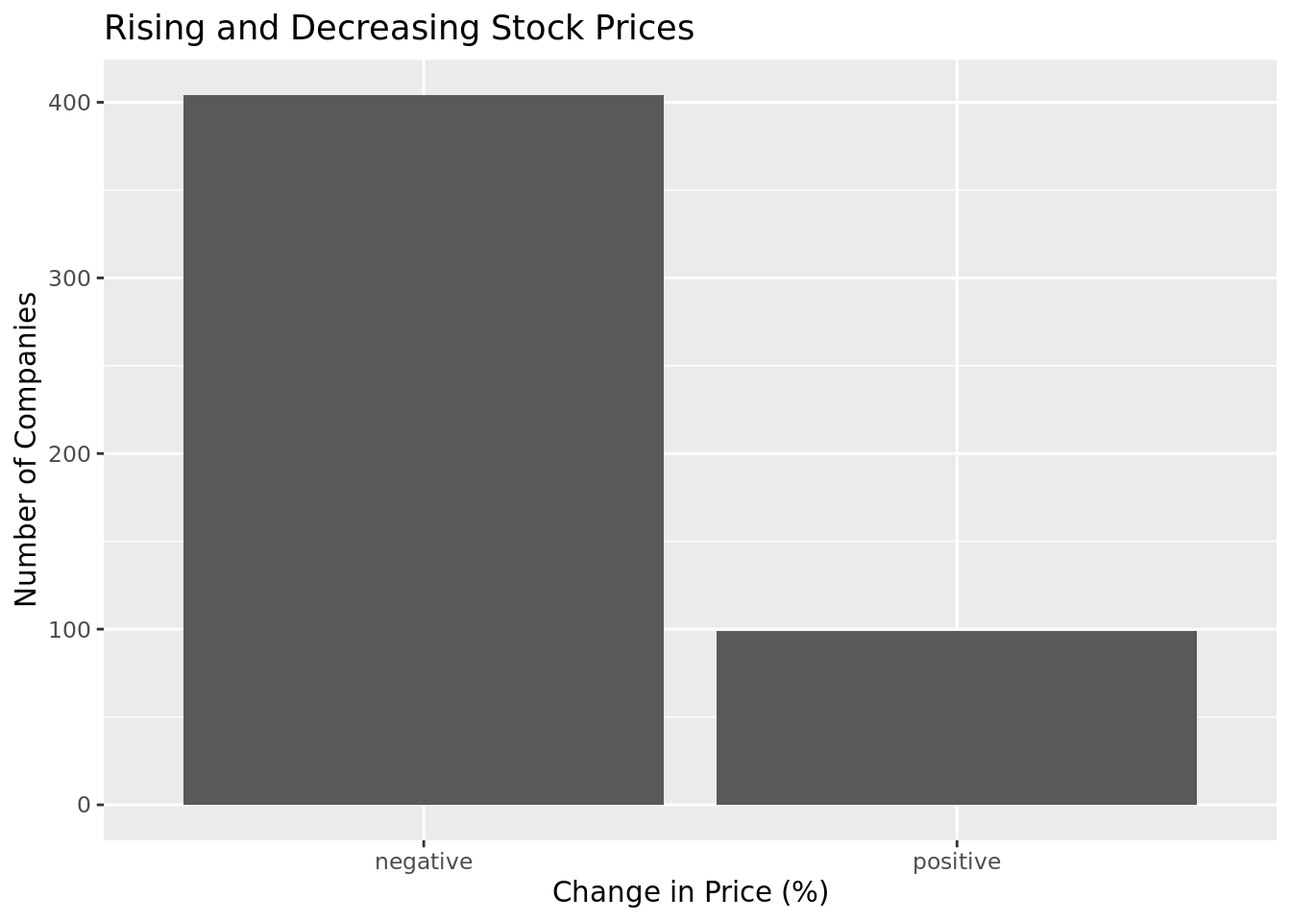
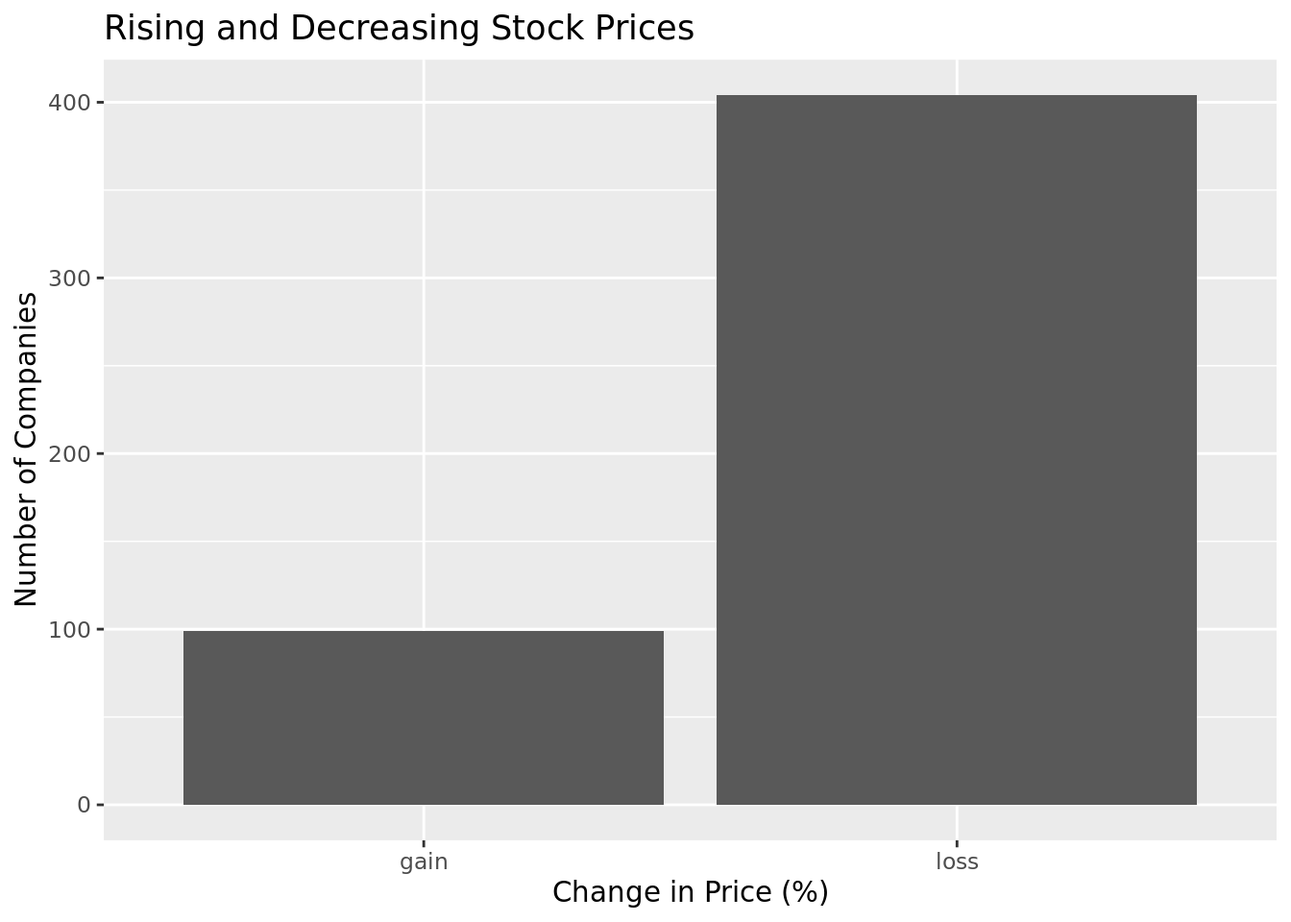
tried modeling--didn't work, fixed up conclusions

diff --git a/docs/report.html b/docs/report.html
@@ -565,8 +565,8 @@ $ decade                  &lt;chr&gt; "'60s", "'60s", "'60s", "'60s", "'60s", "'
 </div>
 </div>
 <p>For the last part of our historical analysis, we wanted to examine the averages of returns, interest, and inflation by decade. To do so, we calculated the means for each rate and return by decade and then created a bar chart for each decade using geom_col() and facet_wrap().</p>
-<p><strong>Results:</strong> As you can see in <a href="#fig-inflation-vs-interest">Figure&nbsp;1</a>, inflation and interest rates are very closely related (especially prior to 2000), with interest and inflation peaking and dipping at similar times. This trend makes sense, as the Federal Reserve tends to raise interest rates when inflation rises, in an attempt to slow the economy down. (This is why the Federal Reserve is raising interest rates now–more on that later.) As depicted in <a href="#fig-inflation-and-interest-vs-returns">Figure&nbsp;2</a>, market returns are extremely volatile and (at least according to this graph) don’t seem to depend on either interest or inflation, contrary to our hypothesis.</p>
-<p><a href="#tbl-best-ten-years-of-returns">Table&nbsp;1</a> show that any of the best years feature at least one relatively low rate (&lt;5%), with many having both low interest and inflation rates. Noticeable outliers include 1980, whose rates were both over 13%, and 1975, whose interest rate was almost 6% and inflation 9%. This trend of high returns correlating with lower rates does support our hypothesis. On the other hand, we expected many of the worst years for market returns to have high rates; surprisingly, this was not the case for about half of the worst years, as shown in <a href="#tbl-worst-ten-years-of-returns">Table&nbsp;2</a>. Though some years did support our hypothesis, including 1974, 1973, 1969, and 1977, the others featured surprisingly low rates. We suspect that these unanticipated poor performance of the stock market during times of low rates could possibly be explained by recessions occurring during these years; in recessionary gaps, inflation tends to be lower because the economy has slowed significantly, and interest rates tend to be low as well in an attempt to re-stimulate the economy by encouraging borrowing.</p>
+<p><strong>Results:</strong> As you can see in <a href="#fig-inflation-vs-interest">Figure&nbsp;1</a>, inflation and interest rates are very closely related (especially prior to 2000), with interest and inflation peaking and dipping at similar times. This trend makes sense, as the Federal Reserve tends to raise interest rates when inflation rises, in an attempt to slow the economy down. (This is why the Federal Reserve is raising interest rates now–more on that later.) As depicted in <a href="#fig-inflation-and-interest-vs-returns">Figure&nbsp;2</a>, market returns are extremely volatile and (at least according to this graph) don’t seem to depend on either interest or inflation, contrary to our hypothesis. Note that we also created several linear models predicting S&amp;P 500 returns from interest and/or inflation rates, but we didn’t include our results because the highest R-squared for any model was only 0.026; thus, these models weren’t very helpful to our analysis, aside from the fact that they also supported the idea that market returns for our data seem to be independent of interest and inflation rates.</p>
+<p><a href="#tbl-best-ten-years-of-returns">Table&nbsp;1</a> show that almost all of the best years for S&amp;P 500 returns feature either a low interest or inflation rate (&lt;5%), with many having both low interest and inflation rates. Noticeable outliers include 1980, whose rates were both over 13%, and 1975, whose interest rate was almost 6% and inflation 9%. This trend of high returns correlating with lower rates does support our hypothesis. On the other hand, we expected many of the worst years for market returns to have high rates; surprisingly, this was not the case for about half of the worst years, as shown in <a href="#tbl-worst-ten-years-of-returns">Table&nbsp;2</a>. Though some years did support our hypothesis, including 1974, 1973, 1969, and 1977, the others featured surprisingly low rates. We suspect that these unanticipated poor performance of the stock market during times of low rates could possibly be explained by recessions occurring during these years; in recessionary gaps, inflation tends to be lower because the economy has slowed significantly, and interest rates tend to be low as well in an attempt to re-stimulate the economy by encouraging borrowing.</p>
 <p><a href="#fig-rates-by-decade">Figure&nbsp;3</a> supports what we concluded after examining the best and worst 10 years of returns: higher returns seem to be common in times of low rates, but it’s difficult to determine a relationship between returns and rates when returns are lower. For example, the ’60s, ’90s, and 2010s all featured high returns (~10+%) and rates at or below 5%; an outlier decade is the 2000s, whose average return was an abysmal ~1% despite low rates. On the other hand, in decades when rates were high (the ’70s and ’80s), returns were much more volatile–about average in the ’70s (7.5%) yet outstanding in the ’80s (15+%).</p>
 <p><strong>Conclusion:</strong> Our initial hypothesis was partially correct. It seems that higher returns in the stock market generally correlate with lower interest and inflation rates, but years with lower returns can’t be explained as neatly, at least with the data we’re using. A potential confounding variable could be whether our economy was experiencing a recession during that year, as recessions sometimes create environments where returns in the stock market are poor even in times of low rates. Given this, it would be difficult to apply any predictions to our current-day analysis, since the market currently features very low (mostly negative) returns. However, we can still independently conduct the current-day analysis to gain a more in-depth understanding of the relationship between returns and rates.</p>
 <div style="page-break-after: always;"></div>
@@ -580,8 +580,8 @@ $ decade                  &lt;chr&gt; "'60s", "'60s", "'60s", "'60s", "'60s", "'
 <p>Investing.com gets their data from financial-data providers, including stock exchanges and/or directly from market makers (who set stock prices to match supply and demand). The data is collected in real time by monitoring transactions (selling, buying, etc.) executed in the stock market, which correspond to increases/decreases in prices. Each observation represents a different day (between 1 October 2020 and 28 October 2022) and includes the following variables:</p>
 <table class="table">
 <colgroup>
-<col style="width: 27%">
-<col style="width: 72%">
+<col style="width: 26%">
+<col style="width: 73%">
 </colgroup>
 <thead>
 <tr class="header">
@@ -612,7 +612,7 @@ $ decade                  &lt;chr&gt; "'60s", "'60s", "'60s", "'60s", "'60s", "'
 </tr>
 <tr class="even">
 <td>gain</td>
-<td>TRUE if daily_diff &gt; 0 (positive return for the day), else FALSE</td>
+<td>“gain” if daily_diff &gt; 0 (positive return for the day), else “loss”</td>
 </tr>
 </tbody>
 </table>
@@ -633,7 +633,7 @@ $ Low                  &lt;dbl&gt; 3808.26, 3803.79, 3824.07, 3799.44, 3741.65, 
 $ daily_percent_change &lt;dbl&gt; 2.4368084, -0.7142690, 0.1210151, 1.5704946, 0.93…
 $ daily_diff           &lt;dbl&gt; 92.80, -27.39, 4.63, 59.67, 35.33, 95.65, -23.27,…
 $ high_minus_low       &lt;dbl&gt; 97.16, 56.16, 62.08, 63.41, 69.09, 110.47, 79.56,…
-$ gain                 &lt;lgl&gt; TRUE, FALSE, TRUE, TRUE, TRUE, TRUE, FALSE, FALSE…</code></pre>
+$ gain                 &lt;chr&gt; "gain", "loss", "gain", "gain", "gain", "gain", "…</code></pre>
 </div>
 </div>
 <p><strong>Methodology:</strong></p>
@@ -646,14 +646,19 @@ $ gain                 &lt;lgl&gt; TRUE, FALSE, TRUE, TRUE, TRUE, TRUE, FALSE, F
 <span id="cb12-6"><a href="#cb12-6" aria-hidden="true" tabindex="-1"></a>     <span class="at">sep =</span> <span class="st">"/"</span></span>
 <span id="cb12-7"><a href="#cb12-7" aria-hidden="true" tabindex="-1"></a>    )</span>
 <span id="cb12-8"><a href="#cb12-8" aria-hidden="true" tabindex="-1"></a>  ) <span class="sc">|&gt;</span></span>
-<span id="cb12-9"><a href="#cb12-9" aria-hidden="true" tabindex="-1"></a>  <span class="fu">ggplot</span>(<span class="fu">aes</span>(<span class="at">x =</span> Date, <span class="at">y =</span> Price)) <span class="sc">+</span></span>
-<span id="cb12-10"><a href="#cb12-10" aria-hidden="true" tabindex="-1"></a>  <span class="fu">geom_point</span>() <span class="sc">+</span></span>
-<span id="cb12-11"><a href="#cb12-11" aria-hidden="true" tabindex="-1"></a>  <span class="fu">scale_x_discrete</span>(<span class="at">breaks=</span><span class="fu">c</span>(<span class="st">"20/10"</span>,<span class="st">"21/10"</span>, <span class="st">"22/10"</span>)) <span class="sc">+</span></span>
-<span id="cb12-12"><a href="#cb12-12" aria-hidden="true" tabindex="-1"></a>  <span class="fu">labs</span>(</span>
-<span id="cb12-13"><a href="#cb12-13" aria-hidden="true" tabindex="-1"></a>    <span class="at">x =</span> <span class="st">"Date (year/month)"</span>,</span>
-<span id="cb12-14"><a href="#cb12-14" aria-hidden="true" tabindex="-1"></a>    <span class="at">y =</span> <span class="st">"Daily S&amp;P 500 Closing Price"</span></span>
-<span id="cb12-15"><a href="#cb12-15" aria-hidden="true" tabindex="-1"></a>  ) <span class="sc">+</span></span>
-<span id="cb12-16"><a href="#cb12-16" aria-hidden="true" tabindex="-1"></a>  <span class="fu">theme_minimal</span>()</span></code><button title="Copy to Clipboard" class="code-copy-button"><i class="bi"></i></button></pre></div>
+<span id="cb12-9"><a href="#cb12-9" aria-hidden="true" tabindex="-1"></a>  <span class="fu">group_by</span>(Date) <span class="sc">|&gt;</span></span>
+<span id="cb12-10"><a href="#cb12-10" aria-hidden="true" tabindex="-1"></a>  <span class="fu">mutate</span>(</span>
+<span id="cb12-11"><a href="#cb12-11" aria-hidden="true" tabindex="-1"></a>    <span class="at">median_price =</span> <span class="fu">median</span>(Price)</span>
+<span id="cb12-12"><a href="#cb12-12" aria-hidden="true" tabindex="-1"></a>  ) <span class="sc">|&gt;</span></span>
+<span id="cb12-13"><a href="#cb12-13" aria-hidden="true" tabindex="-1"></a>  <span class="fu">ggplot</span>() <span class="sc">+</span></span>
+<span id="cb12-14"><a href="#cb12-14" aria-hidden="true" tabindex="-1"></a>  <span class="fu">geom_point</span>(<span class="fu">aes</span>(<span class="at">x =</span> Date, <span class="at">y =</span> Price)) <span class="sc">+</span></span>
+<span id="cb12-15"><a href="#cb12-15" aria-hidden="true" tabindex="-1"></a>  <span class="fu">geom_point</span>(<span class="fu">aes</span>(<span class="at">x =</span> Date, <span class="at">y =</span> median_price), <span class="at">color =</span> <span class="st">"red"</span>) <span class="sc">+</span> </span>
+<span id="cb12-16"><a href="#cb12-16" aria-hidden="true" tabindex="-1"></a>  <span class="fu">scale_x_discrete</span>(<span class="at">breaks=</span><span class="fu">c</span>(<span class="st">"20/10"</span>,<span class="st">"21/10"</span>, <span class="st">"22/10"</span>)) <span class="sc">+</span></span>
+<span id="cb12-17"><a href="#cb12-17" aria-hidden="true" tabindex="-1"></a>  <span class="fu">labs</span>(</span>
+<span id="cb12-18"><a href="#cb12-18" aria-hidden="true" tabindex="-1"></a>    <span class="at">x =</span> <span class="st">"Date (year/month)"</span>,</span>
+<span id="cb12-19"><a href="#cb12-19" aria-hidden="true" tabindex="-1"></a>    <span class="at">y =</span> <span class="st">"Daily S&amp;P 500 Closing Price"</span></span>
+<span id="cb12-20"><a href="#cb12-20" aria-hidden="true" tabindex="-1"></a>  ) <span class="sc">+</span></span>
+<span id="cb12-21"><a href="#cb12-21" aria-hidden="true" tabindex="-1"></a>  <span class="fu">theme_minimal</span>()</span></code><button title="Copy to Clipboard" class="code-copy-button"><i class="bi"></i></button></pre></div>
 <div class="cell-output-display">
 <div id="fig-daily-closing-price" class="quarto-figure quarto-figure-center anchored">
 <figure class="figure">
@@ -716,7 +721,7 @@ $ gain                 &lt;lgl&gt; TRUE, FALSE, TRUE, TRUE, TRUE, TRUE, FALSE, F
 <span id="cb15-3"><a href="#cb15-3" aria-hidden="true" tabindex="-1"></a>  <span class="fu">geom_smooth</span>(<span class="at">se =</span> <span class="cn">FALSE</span>,  <span class="at">colour =</span> <span class="st">"red"</span>) <span class="sc">+</span></span>
 <span id="cb15-4"><a href="#cb15-4" aria-hidden="true" tabindex="-1"></a>  <span class="fu">labs</span>(</span>
 <span id="cb15-5"><a href="#cb15-5" aria-hidden="true" tabindex="-1"></a>    <span class="at">x =</span> <span class="st">"Date"</span>,</span>
-<span id="cb15-6"><a href="#cb15-6" aria-hidden="true" tabindex="-1"></a>    <span class="at">y =</span> <span class="st">"Average Daily Difference"</span></span>
+<span id="cb15-6"><a href="#cb15-6" aria-hidden="true" tabindex="-1"></a>    <span class="at">y =</span> <span class="st">"Mean Daily Difference (Opening - Closing price)"</span></span>
 <span id="cb15-7"><a href="#cb15-7" aria-hidden="true" tabindex="-1"></a>  ) <span class="sc">+</span> </span>
 <span id="cb15-8"><a href="#cb15-8" aria-hidden="true" tabindex="-1"></a>  <span class="fu">theme_minimal</span>()</span></code><button title="Copy to Clipboard" class="code-copy-button"><i class="bi"></i></button></pre></div>
 <div class="cell-output-display">
@@ -747,10 +752,10 @@ $ gain                 &lt;lgl&gt; TRUE, FALSE, TRUE, TRUE, TRUE, TRUE, FALSE, F
 </div>
 </div>
 <p>We then graphed the average daily change (between opening and closing prices) and closing price for each month. We did this by grouping the data by months then finding the summary mean of the average daily change and closing price for each month. Then, we used geom_smooth to plot a line graph to visualizing the trends from 10/01/2020 to 10/28/2022.</p>
-<p><strong>Results:</strong> In <a href="#fig-daily-closing-price">Figure&nbsp;4</a>, we can see that the closing prices for the S&amp;P 500 follow a generally positive trend from October 2020 to December 2021/January 2022, where they peak for the two-year period, and then begin to generally decline through October 2022. Each month had a wide range of closing prices that we can observe from the range of the heights of closing price data points each month. Some months have a range of approximately $250 (e.g., August 2022) and some have a range of approximately $750 (e.g., February 2021). This trend can possibly be explained by the very low rates characteristic of the Covid-19 era–the interest rate during the period prior to February 2022 was at a steady 0.25%. As soon as the Federal Reserve hiked rates in March 2022 to 0.5% (to combat rising inflation that had begun in late 2022), however, daily closing prices began to fall. This supports our hypothesis that rising rates generally correlates with a decrease in stock prices.</p>
+<p><strong>Results:</strong> In <a href="#fig-daily-closing-price">Figure&nbsp;4</a>, we can see that the median monthly closing prices for the S&amp;P 500 follow a generally positive trend from October 2020 to December 2021/January 2022, where they peak for the two-year period, and then begin to generally decline through October 2022. Each month had a wide range of closing prices that we can observe from the range of the heights of closing price data points each month. Some months have a range of approximately $250 (e.g., August 2022), while others have a range of approximately $750 (e.g., February 2021). This trend can possibly be explained by the very low rates characteristic of the Covid-19 era–the interest rate during the period prior to February 2022 was at a steady 0.25%. As soon as the Federal Reserve hiked rates in March 2022 to 0.5% (to combat rising inflation that had begun in late 2022), however, daily closing prices began to fall. This supports our hypothesis that rising rates generally correlates with a decrease in stock prices.</p>
 <p>According to <a href="#fig-prop-gains-and-losses-by-month">Figure&nbsp;5</a>, we notice that 7 of the 26 months in our data set have losses (gain = false). This means that, for the other 19 months, the number of days whose closing price was higher than the opening price (daily gain) was at least equal, if not greater than, the number of days whose closing price was lower than the opening price (daily loss). Also, it seems that the proportion of losses begins to increase beginning in 2022, which would support our conclusion from the previous graph.</p>
 <p>We observe that the average daily difference between opening and closing prices as depicted in <a href="#fig-mean-daily-diff-by-month">Figure&nbsp;6</a> increases logarithmically from October 2020 to approximately May 2021, decrease linearly from May 2021 to February 2022, then increase exponentially from February 2022 to October 2022. The daily difference represents the volatility of the market–as you can see, the absolute value of the daily difference has almost doubled since the beginning of the year, shooting up from 3 to 5. This increase in volatility supports our previous findings that it can sometimes be more difficult to determine a correlation between rates and returns when returns are low. In <a href="#fig-mean-price-by-month">Figure&nbsp;7</a>, we observe that the average closing prices increase linearly from October 2020 to approximately November 2021, then decrease linearly from November 2021 to October 2022. This graph also shows a peak in stock prices around the beginning of 2022 (before interest-rate hikes), which supports our hypothesis.</p>
-<p><strong>Conclusion:</strong> Our initial hypothesis that market returns will fall as rates rise (and vice versa) is partially backed up by the data. For example, in <a href="#fig-mean-daily-diff-by-month">Figure&nbsp;6</a>, when the average daily difference is below 0 near the 2022-01 to 2022-07 time frame, average closing prices are still relatively high compared to earlier ones. Also, in <a href="#fig-prop-gains-and-losses-by-month">Figure&nbsp;5</a>, we can see that 2022-07 month has one of the highest gain/loss proportions, yet still has a negative average daily difference from <a href="#fig-mean-daily-diff-by-month">Figure&nbsp;6</a>. Our data also answers the original question of when to be “bearish” (negative investment outlook) and when to be “bullish” (positive outlook), as <a href="#fig-prop-gains-and-losses-by-month">Figure&nbsp;5</a> shows the months in which daily gains or losses are more prevalent. As concluded in the previous section, returns generally seem to be high when rates are low; contrary to our previous conclusion, low returns also seem to correspond with high returns, implying a negative relationship between the two variables for both high and low returns (before we concluded that we could only establish a relationship between returns and rates when returns were high).</p>
+<p><strong>Conclusion:</strong> Our initial hypothesis that market returns will fall as rates rise (and vice versa) is partially backed up by the data. For example, in <a href="#fig-mean-daily-diff-by-month">Figure&nbsp;6</a>, when the average daily difference is below 0 near the 2022-01 to 2022-07 time frame, average closing prices are still relatively high compared to earlier ones. Also, in <a href="#fig-prop-gains-and-losses-by-month">Figure&nbsp;5</a>, we can see that 2022-07 month has one of the highest gain/loss proportions, yet still has a negative average daily difference from <a href="#fig-mean-daily-diff-by-month">Figure&nbsp;6</a>. Our data also answers the original question of when to be “bearish” (negative investment outlook) and when to be “bullish” (positive outlook), as <a href="#fig-prop-gains-and-losses-by-month">Figure&nbsp;5</a> shows the months in which daily gains or losses are more prevalent. As concluded in the previous section, returns generally seem to be high when rates are low; contrary to our previous conclusion, low returns also seem to correspond with high rates, implying a negative relationship between the two variables for both high and low returns (earlier we concluded that we could only establish a relationship between returns and rates when returns were high).</p>
 <div style="page-break-after: always;"></div>
 </section>
 <section id="part-3-company-and-sector-analysis" class="level1">
@@ -764,8 +769,8 @@ $ gain                 &lt;lgl&gt; TRUE, FALSE, TRUE, TRUE, TRUE, TRUE, FALSE, F
 <p>DATA HUB collected their data from S&amp;P Dow Jones Indices (which, in turn, is collected daily from stock exchanges), and Slickcharts their data directly from the stock exchange. Each observation represents a different company and includes the following variables:</p>
 <table class="table">
 <colgroup>
-<col style="width: 17%">
-<col style="width: 82%">
+<col style="width: 18%">
+<col style="width: 81%">
 </colgroup>
 <thead>
 <tr class="header">
@@ -804,11 +809,11 @@ $ gain                 &lt;lgl&gt; TRUE, FALSE, TRUE, TRUE, TRUE, TRUE, FALSE, F
 </tr>
 <tr class="even">
 <td>return category</td>
-<td>positive if ytd_return_num &gt; 0 (positive return for the year), else negative</td>
+<td>“gain” if ytd_return_num &gt; 0 (positive return for the year), else “loss”</td>
 </tr>
 </tbody>
 </table>
-<p><strong>Contextualization:</strong> Because of high inflation rates, and rising interest rates, the stock market has taken a major blow this past year. However, some sectors and stocks have been more negatively affected than others. We believe that industries that are considered more essential tend to be less affected by fluctuations in these rates. So how true is this, and how much are both of these industries affected? In this section, we’re analyzing data from the beginning of 2022 to the end of October.</p>
+<p><strong>Contextualization:</strong> Because of high inflation rates, and rising interest rates, the stock market has taken a major blow this past year. However, some sectors and stocks have been more negatively affected than others. We believe that industries that are considered more essential tend to be less affected by fluctuations in these rates. So how true is this, and how much are both of these categories affected? In this section, we’re analyzing data from the beginning of 2022 to the end of October.</p>
 <div class="cell">
 <div class="sourceCode cell-code" id="cb17"><pre class="sourceCode r code-with-copy"><code class="sourceCode r"><span id="cb17-1"><a href="#cb17-1" aria-hidden="true" tabindex="-1"></a><span class="co">#|: loading-current-day-company-and-sector-data</span></span>
 <span id="cb17-2"><a href="#cb17-2" aria-hidden="true" tabindex="-1"></a></span>
@@ -824,7 +829,7 @@ $ original_price  &lt;dbl&gt; 177.88758, 333.04188, 164.96633, 143.61075, 342.80
 $ current_price   &lt;dbl&gt; 144.00, 236.16, 115.13, 99.91, 214.29, 100.60, 278.50,…
 $ ytd_return_num  &lt;dbl&gt; -19.05, -29.09, -30.21, -30.43, -37.49, -29.92, -5.80,…
 $ sector          &lt;chr&gt; "Information Technology", "Information Technology", "C…
-$ return_category &lt;chr&gt; "negative", "negative", "negative", "negative", "negat…</code></pre>
+$ return_category &lt;chr&gt; "loss", "loss", "loss", "loss", "loss", "loss", "loss"…</code></pre>
 </div>
 </div>
 <p><strong>Methodology:</strong></p>
@@ -1168,7 +1173,7 @@ $ return_category &lt;chr&gt; "negative", "negative", "negative", "negative", "n
 </div>
 </div>
 </div>
-<p>Our final graph takes into account the concept of essential and nonessential industries. We classify essential industries as Consumer Staples, Utilities, and Energy, since consumer staples includes food, utilities has electricity, and energy has the materials we need for electricity and more. We would hypothesize that these essential industries would not be as affected as the nonessential industries, because regardless of how the market is, people need to spend money on the things that will keep them alive. We look to see if there is a quantifiable difference between which of these two larger groups for sectors performed better. To do this, a violin plot is made where the category is on the x axis, and returns are on the y axis.</p>
+<p>Our final graph takes into account the concept of essential and nonessential categories. We classify essential industries as Consumer Staples, Utilities, and Energy, since consumer staples includes food, utilities has electricity, and energy has the materials we need for electricity and more. We would hypothesize that the essential category of industries would not be as affected as the nonessential category, because regardless of how the market is, people need to spend money on the things that will keep them alive. We look to see if there is a quantifiable difference between which of these two larger groups for sectors performed better. To do this, a violin plot is made where the category is on the x axis, and returns are on the y axis.</p>
 <div class="cell">
 <div class="sourceCode cell-code" id="cb25"><pre class="sourceCode r code-with-copy"><code class="sourceCode r"><span id="cb25-1"><a href="#cb25-1" aria-hidden="true" tabindex="-1"></a>sp500_by_company_and_sector <span class="sc">|&gt;</span></span>
 <span id="cb25-2"><a href="#cb25-2" aria-hidden="true" tabindex="-1"></a>  <span class="fu">mutate</span>(</span>
@@ -1202,7 +1207,7 @@ $ return_category &lt;chr&gt; "negative", "negative", "negative", "negative", "n
 </section>
 <section id="closing-remarks" class="level1">
 <h1><strong>Closing Remarks</strong></h1>
-<p>Our research aimed to explore the relationship between interest and inflation rates and the performance of the stock market to showcase beneficial investment decisions in the context of today’s market and fluctuating economic climates. We hypothesized that the overall stock market would be hurt by high inflation/interest rates and that certain sectors of the economy demonstrate to be less affected than others in these circumstances. Overall, our data has supported our hypotheses to a fair extent: from the data gathered, we can conclude that higher returns in the stock market generally occur in times of lower interest and inflation rates, and essential (survival-focused) industries will perform better relative to other sectors when the rest of the market is suffering. However, our analyses were somewhat limited by confounding variables, including volatile economic climates and recessionary pressures; e.g., it can be difficult to determine when stock market will feature lower returns, as shown in our historical analysis.</p>
+<p>Our research aimed to explore the relationship between interest and inflation rates and the performance of the stock market to showcase beneficial investment decisions in the context of today’s market and fluctuating economic climates. We hypothesized that the overall stock market would be hurt by high inflation/interest rates and that certain sectors of the economy would be less affected than others in these circumstances. Overall, our data has supported our hypotheses to a fair extent. From our historical and current-day analyses, we can conclude that higher returns in the stock market generally occur in times of lower interest and inflation rates; through our evaluation of sector return differences, we conclude that essential (survival-focused) industries will perform better relative to other sectors when the rest of the market is suffering. However, our analyses were somewhat limited by confounding variables, including volatile economic climates and recessionary pressures; e.g., it can be difficult to determine when stock market will feature lower returns, as shown in our historical analysis.</p>
 <p><br>
 </p>
 

diff --git a/docs/proposal.html b/docs/proposal.html
@@ -398,7 +398,7 @@ $ `Change %` &lt;chr&gt; "2.46%", "-0.61%", "-0.74%", "1.63%", "1.19%", "2.37%",
 <span id="cb16-3"><a href="#cb16-3" aria-hidden="true" tabindex="-1"></a>    <span class="at">daily_diff =</span> Price <span class="sc">-</span> Open,</span>
 <span id="cb16-4"><a href="#cb16-4" aria-hidden="true" tabindex="-1"></a>    <span class="at">high_minus_low =</span> High <span class="sc">-</span> Low,</span>
 <span id="cb16-5"><a href="#cb16-5" aria-hidden="true" tabindex="-1"></a>  <span class="at">daily_percent_change =</span> ((Price <span class="sc">-</span> Open) <span class="sc">/</span> Open) <span class="sc">*</span> <span class="dv">100</span>,</span>
-<span id="cb16-6"><a href="#cb16-6" aria-hidden="true" tabindex="-1"></a>    <span class="at">gain =</span> daily_diff <span class="sc">&gt;</span> <span class="dv">0</span></span>
+<span id="cb16-6"><a href="#cb16-6" aria-hidden="true" tabindex="-1"></a>    <span class="at">gain =</span> <span class="fu">if_else</span>(daily_diff <span class="sc">&gt;</span> <span class="dv">0</span>, <span class="st">"gain"</span>, <span class="st">"loss"</span>)</span>
 <span id="cb16-7"><a href="#cb16-7" aria-hidden="true" tabindex="-1"></a>) <span class="sc">|&gt;</span></span>
 <span id="cb16-8"><a href="#cb16-8" aria-hidden="true" tabindex="-1"></a>  <span class="fu">select</span>(Date, Price, Open, High, Low, daily_percent_change, daily_diff, high_minus_low, gain)</span>
 <span id="cb16-9"><a href="#cb16-9" aria-hidden="true" tabindex="-1"></a></span>
@@ -414,7 +414,7 @@ $ Low                  &lt;dbl&gt; 3808.26, 3803.79, 3824.07, 3799.44, 3741.65, 
 $ daily_percent_change &lt;dbl&gt; 2.4368084, -0.7142690, 0.1210151, 1.5704946, 0.93…
 $ daily_diff           &lt;dbl&gt; 92.80, -27.39, 4.63, 59.67, 35.33, 95.65, -23.27,…
 $ high_minus_low       &lt;dbl&gt; 97.16, 56.16, 62.08, 63.41, 69.09, 110.47, 79.56,…
-$ gain                 &lt;lgl&gt; TRUE, FALSE, TRUE, TRUE, TRUE, TRUE, FALSE, FALSE…</code></pre>
+$ gain                 &lt;chr&gt; "gain", "loss", "gain", "gain", "gain", "gain", "…</code></pre>
 </div>
 </div>
 </section>
@@ -483,7 +483,7 @@ $ Sector &lt;chr&gt; "Industrials", "Industrials", "Health Care", "Health Care",
 <span id="cb23-6"><a href="#cb23-6" aria-hidden="true" tabindex="-1"></a>    <span class="at">ytd_return_num =</span> <span class="fu">as.numeric</span>(ytd_return_num),</span>
 <span id="cb23-7"><a href="#cb23-7" aria-hidden="true" tabindex="-1"></a>    <span class="at">current_price =</span> <span class="fu">str_trim</span>(current_price),</span>
 <span id="cb23-8"><a href="#cb23-8" aria-hidden="true" tabindex="-1"></a>    <span class="at">current_price =</span> <span class="fu">as.numeric</span>(current_price),</span>
-<span id="cb23-9"><a href="#cb23-9" aria-hidden="true" tabindex="-1"></a>    <span class="at">return_category =</span> <span class="fu">if_else</span>(ytd_return_num <span class="sc">&gt;</span> <span class="dv">0</span>, <span class="st">"positive"</span>, <span class="st">"negative"</span>),</span>
+<span id="cb23-9"><a href="#cb23-9" aria-hidden="true" tabindex="-1"></a>    <span class="at">return_category =</span> <span class="fu">if_else</span>(ytd_return_num <span class="sc">&gt;</span> <span class="dv">0</span>, <span class="st">"gain"</span>, <span class="st">"loss"</span>),</span>
 <span id="cb23-10"><a href="#cb23-10" aria-hidden="true" tabindex="-1"></a>    <span class="at">ytd_factor =</span>  (ytd_return_num <span class="sc">+</span> <span class="dv">100</span>) <span class="sc">/</span> <span class="dv">100</span>,</span>
 <span id="cb23-11"><a href="#cb23-11" aria-hidden="true" tabindex="-1"></a>    <span class="at">original_price =</span> current_price <span class="sc">/</span> ytd_factor, </span>
 <span id="cb23-12"><a href="#cb23-12" aria-hidden="true" tabindex="-1"></a>    <span class="at">name =</span> <span class="fu">case_when</span>(</span>
@@ -553,7 +553,7 @@ $ original_price  &lt;dbl&gt; 177.88758, 333.04188, 164.96633, 143.61075, 342.80
 $ current_price   &lt;dbl&gt; 144.00, 236.16, 115.13, 99.91, 214.29, 100.60, 278.50,…
 $ ytd_return_num  &lt;dbl&gt; -19.05, -29.09, -30.21, -30.43, -37.49, -29.92, -5.80,…
 $ sector          &lt;chr&gt; "Information Technology", "Information Technology", "C…
-$ return_category &lt;chr&gt; "negative", "negative", "negative", "negative", "negat…</code></pre>
+$ return_category &lt;chr&gt; "loss", "loss", "loss", "loss", "loss", "loss", "loss"…</code></pre>
 </div>
 </div>
 <div class="cell">
